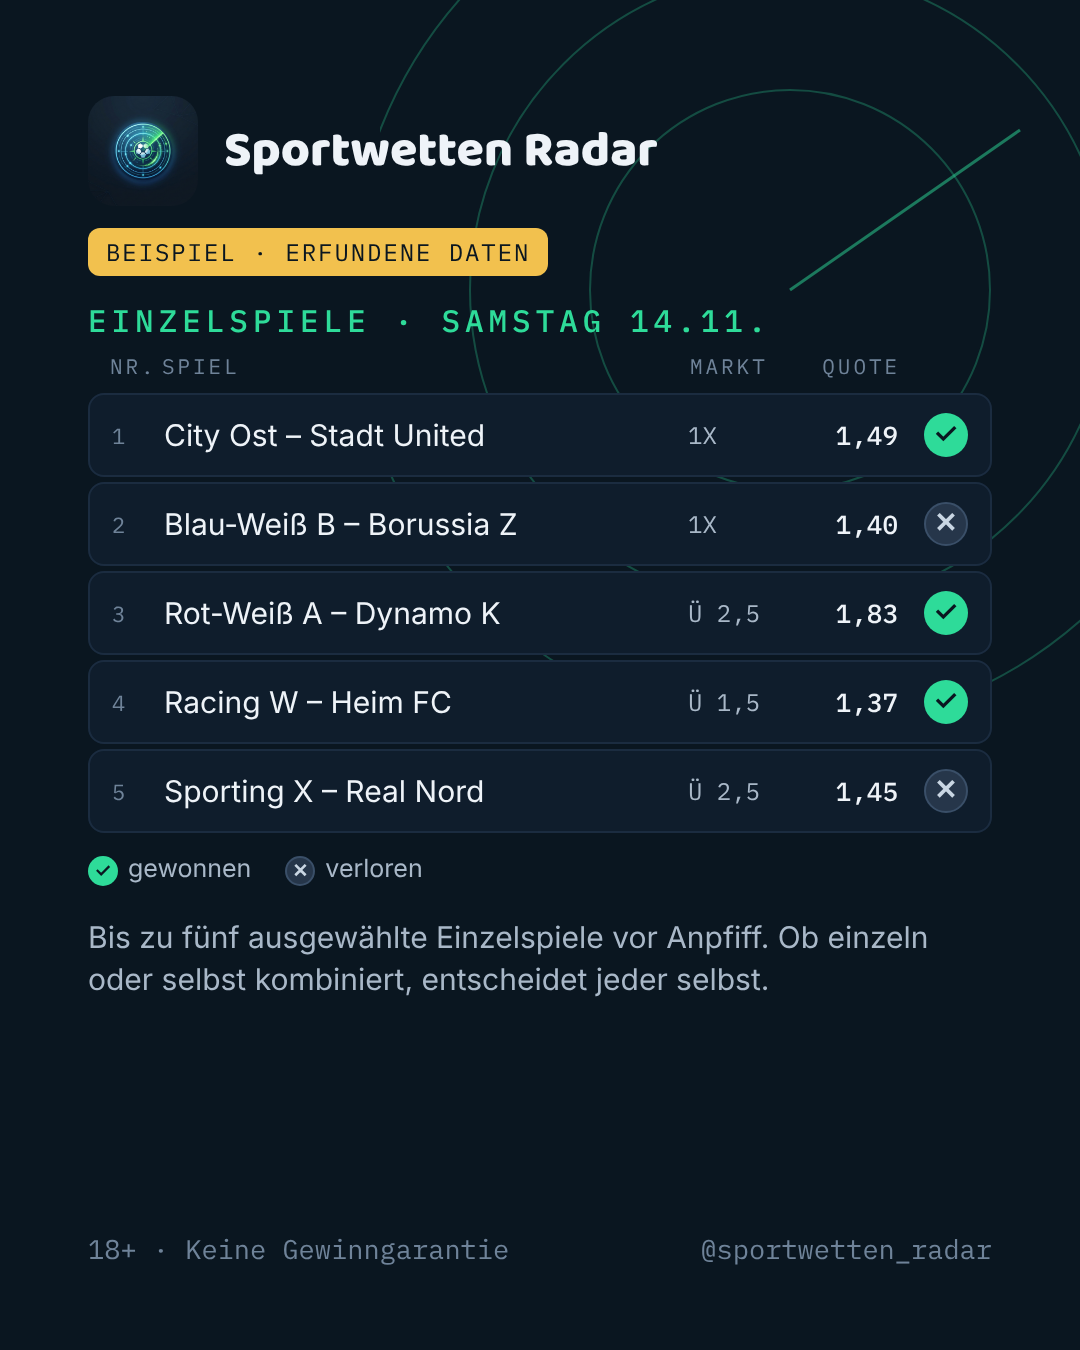
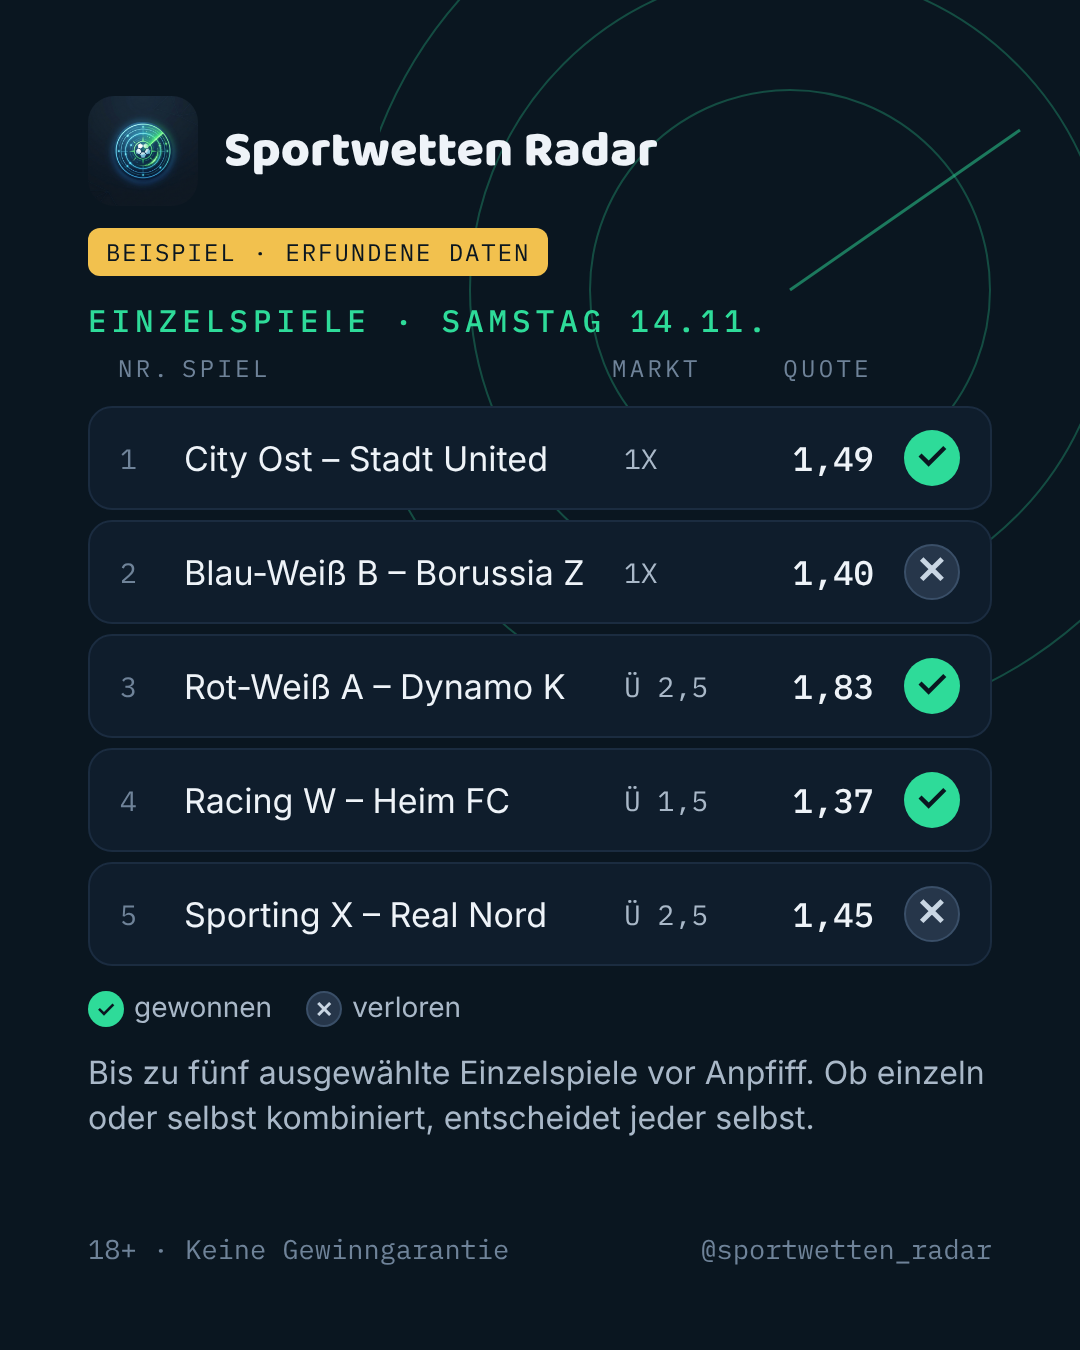
Einzelspiele-Karten füllen die Fläche besser
Claude-Session: https://claude.ai/code/session_01U9SB1W9YKRGE7Am12d1CP1

diff --git a/tools/ig_ergebnis_woche_monat.py b/tools/ig_ergebnis_woche_monat.py
@@ -18,6 +18,11 @@ EX="""
 .m .dt i{width:24px;height:24px}.m .dt{gap:7px}.m .wr b{width:190px}
 .leg{display:flex;gap:34px;margin-top:22px;font-size:26px;color:#a9b8c8;align-items:center}
 .leg i{display:inline-block;width:26px;height:26px;border-radius:50%;background:#2edb99;margin-right:12px;vertical-align:-4px}.leg i.l{background:#26364a;border:2px solid #3a4f68}
+.big .wr{padding:20px 28px;margin-top:10px;border-radius:24px}
+.big .wr b{font-size:36px;width:170px;line-height:40px}.big .wr b small{font-size:22px;line-height:26px;margin-top:2px}
+.big .wr{align-items:center}.big .dt{gap:16px;align-items:center}.big .dt i{width:42px;height:42px}
+.big.m .dt{gap:10px}.big.m .dt i{width:36px;height:36px}.big.m .wr{padding:34px 28px}
+.big.w2 .wr{padding:13px 28px;margin-top:8px}.big .leg{margin-top:22px;font-size:28px}.big .note{font-size:32px;margin-top:22px}
 .note{font-size:30px;line-height:1.4;color:#a9b8c8;margin-top:26px}
 """
 LEG='<div class="leg"><span><i></i>gewonnen</span><span><i class="l"></i>verloren</span></div>'
@@ -27,12 +32,12 @@ def page(eb,inner,cls=""):
       f'<div class="eb">{eb}</div><div class="tb {cls}">{inner}</div><div class="foot"><span>18+ · Keine Gewinngarantie</span><span>@sportwetten_radar</span></div>')
 days=[("Mo","09.11.",3),("Di","10.11.",2),("Mi","11.11.",4),("Do","12.11.",3),("Fr","13.11.",5),("Sa","14.11.",26),("So","15.11.",9)]
 w1=page("Woche 09.–15.11. · Live-Wetten","".join(row(d,dt,dots(n)) for d,dt,n in days)+LEG)
-w2=page("Woche 09.–15.11. · Einzelspiele","".join(row(d,dt,dots(5)) for d,dt,n in days)+LEG+'<div class="note">Bis zu fünf ausgewählte Einzelspiele pro Tag.</div>')
+w2=page("Woche 09.–15.11. · Einzelspiele","".join(row(d,dt,dots(5)) for d,dt,n in days)+LEG,"big w2")
 w3=page("Wochenrückblick","<h1 style='font-family:B;font-weight:800;font-size:70px;line-height:1.05'>Gute und schwache Tage stehen nebeneinander.</h1>"
   '<div class="p">Jeder Eintrag der Woche wird ausgewertet, nichts wird nachträglich geändert. Die Einzelergebnisse aller Tage stehen im Ergebnis-Kanal, Link in der Bio.</div>')
 wk=[("KW 41","05.–11.10.",41),("KW 42","12.–18.10.",38),("KW 43","19.–25.10.",55),("KW 44","26.10.–01.11.",47)]
 m1=page("Monatsbericht · Oktober · Live-Wetten","".join(row(a,b,dots(n)) for a,b,n in wk)+LEG,"m")
-m2=page("Monatsbericht · Oktober · Einzelspiele","".join(row(a,b,dots(25)) for a,b,n in wk)+LEG+'<div class="note">Bis zu fünf ausgewählte Einzelspiele pro Spieltag.</div>',"m")
+m2=page("Monatsbericht · Oktober · Einzelspiele","".join(row(a,b,dots(25)) for a,b,n in wk)+LEG+'<div class="note">Bis zu fünf ausgewählte Einzelspiele pro Spieltag.</div>',"m big")
 m3=page("Monatsbericht · Oktober","<h1 style='font-family:B;font-weight:800;font-size:70px;line-height:1.05'>Ein Monat. Jeder Tag öffentlich.</h1>"
   '<div class="p">Alle Auswertungen des Monats stehen im Ergebnis-Kanal, die starken Tage wie die schwachen. Nichts wird nachträglich geändert oder gelöscht.</div>'
   '<div class="p">Ein einzelner Monat ist eine kleine Stichprobe und sagt wenig über den nächsten. Link in der Bio.</div>')

diff --git a/tools/ig_ergebnis_tabelle.py b/tools/ig_ergebnis_tabelle.py
@@ -25,7 +25,10 @@ EX="""
 .tr b{font-family:M;font-weight:500;font-size:26px;width:100px;text-align:right}
 .tr u{text-decoration:none;width:44px;height:44px;margin-left:26px;border-radius:50%;display:flex;align-items:center;justify-content:center;font-family:B;font-weight:800;font-size:28px}
 .tr u.w{background:#2edb99;color:#0a1620}.tr u.l{background:#26364a;color:#c9d6e3;border:2px solid #3a4f68}
-.tr.e{height:84px}.tr.e div{font-size:30px}
+.big .th{font-size:24px;padding:0 30px 12px}.big .th span:nth-child(1){width:64px}.big .th span:nth-child(3){width:140px}.big .th span:nth-child(4){width:120px}.big .th span:nth-child(5){width:90px}
+.big .tr{height:104px;margin-top:10px;border-radius:24px;padding:0 30px;font-size:34px}.big .tr em{font-size:28px;width:64px}.big .tr span{font-size:28px;width:130px}
+.big .tr b{font-size:34px;width:120px}.big .tr u{width:56px;height:56px;font-size:38px;margin-left:30px}
+.big .leg{margin-top:24px;font-size:28px}.big .leg u{width:36px;height:36px;font-size:22px}.big .note{font-size:32px;margin-top:24px}
 .leg{display:flex;gap:34px;margin-top:20px;font-size:25px;color:#a9b8c8;align-items:center}
 .leg u{display:inline-flex;width:30px;height:30px;border-radius:50%;text-decoration:none;align-items:center;justify-content:center;font-size:19px;font-weight:800;margin-right:10px;background:#2edb99;color:#0a1620}.leg u.l{background:#26364a;color:#c9d6e3;border:2px solid #3a4f68}
 .note{font-size:30px;line-height:1.4;color:#a9b8c8;margin-top:30px}
@@ -39,7 +42,7 @@ def page(eb,inner):
       f'<div class="eb">{eb}</div>'+inner+'<div class="foot"><span>18+ · Keine Gewinngarantie</span><span>@sportwetten_radar</span></div>')
 cards=[("tabelle_live_1",page("Live-Wetten · Samstag 14.11. · 1–12",'<div class="tb">'+HEAD+rows(LIVE[:12])+LEG+'</div>')),
        ("tabelle_live_2",page("Live-Wetten · Samstag 14.11. · 13–24",'<div class="tb">'+HEAD+rows(LIVE[12:],12)+LEG+'</div>')),
-       ("tabelle_einzelspiele",page("Einzelspiele · Samstag 14.11.",'<div class="tb">'+HEAD+rows(EINZ,0,"e")+LEG+
+       ("tabelle_einzelspiele",page("Einzelspiele · Samstag 14.11.",'<div class="tb big">'+HEAD+rows(EINZ,0,"e")+LEG+
         '<div class="note">Bis zu fünf ausgewählte Einzelspiele vor Anpfiff. Ob einzeln oder selbst kombiniert, entscheidet jeder selbst.</div></div>'))]
 css=s.CSS.replace("FONTS","file://"+os.path.join(s.HOME,"assets/fonts"))+X.EXTRA+EX
 logo="file://"+os.path.join(s.HOME,"logo-icon.png")
